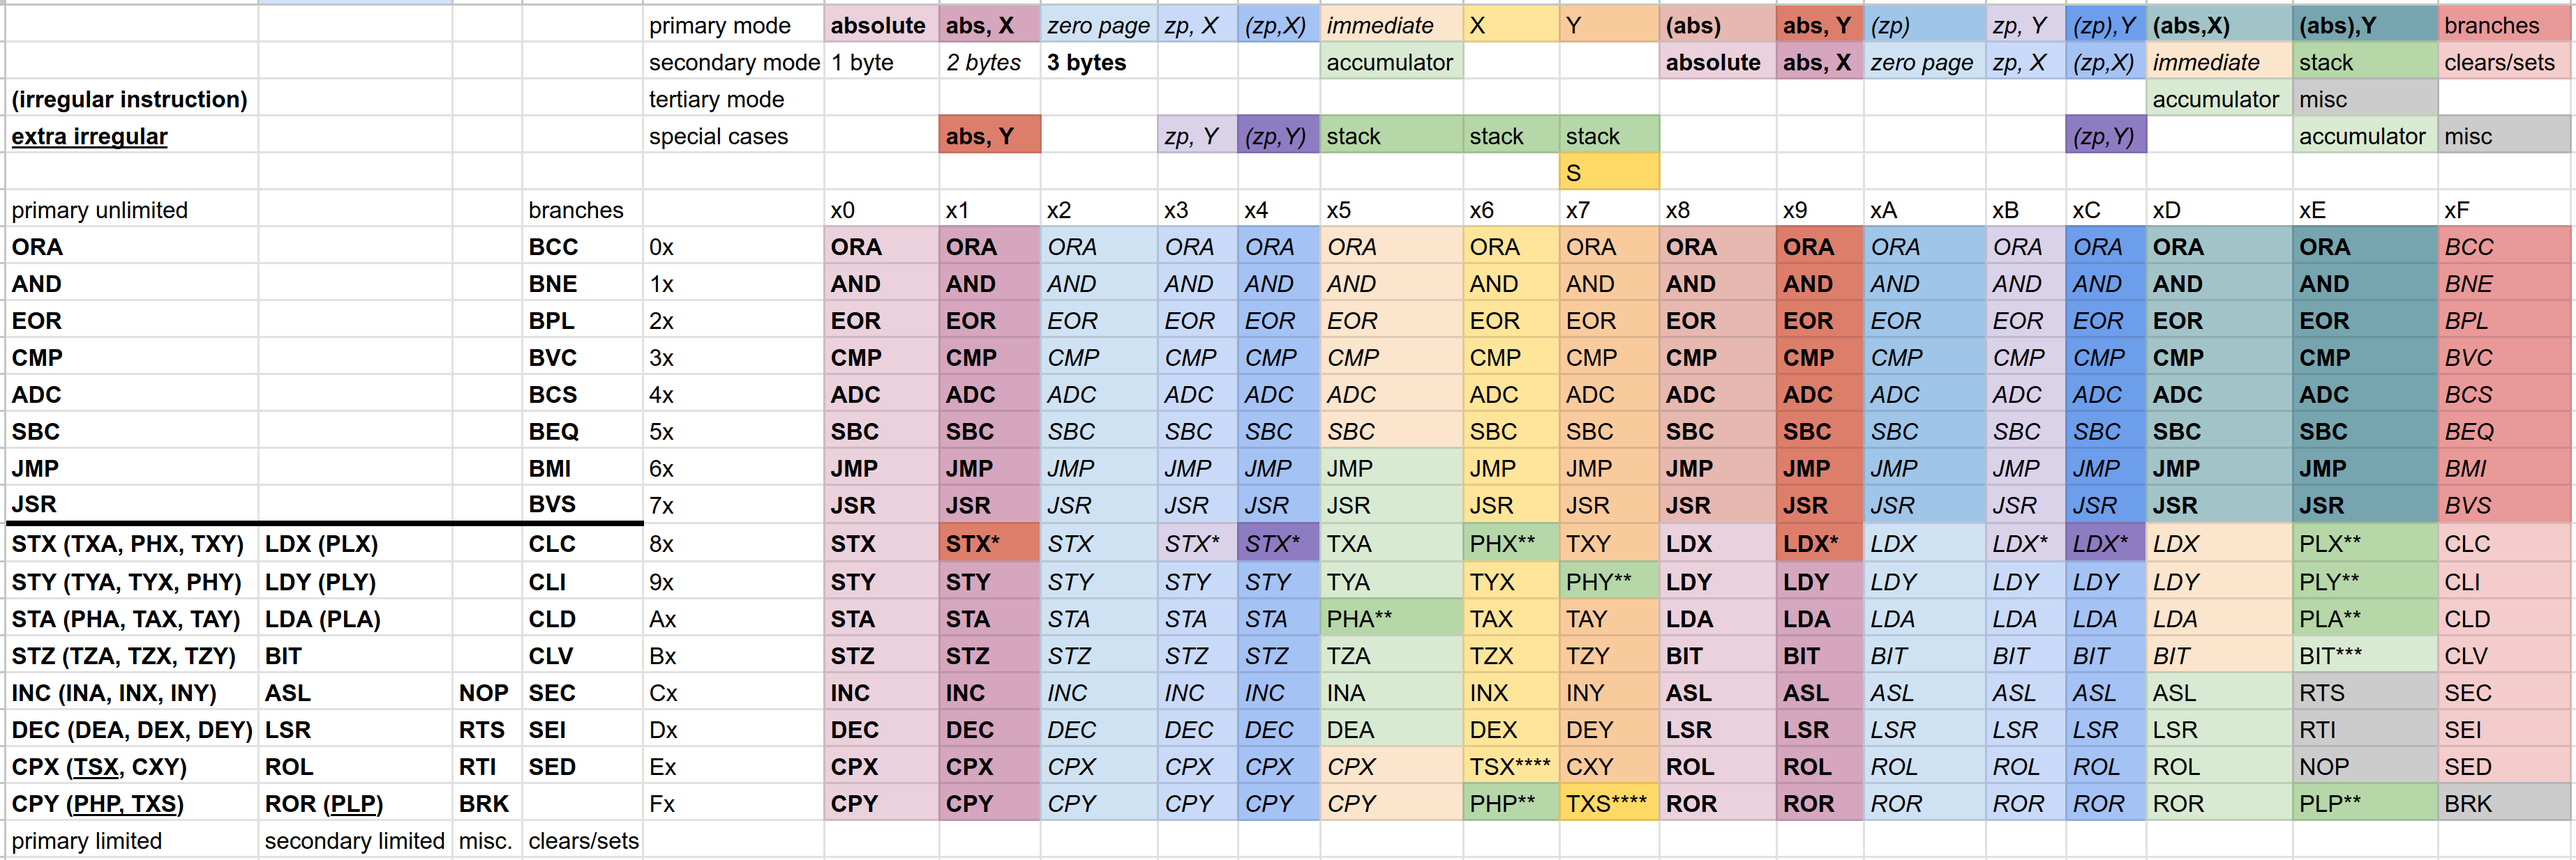
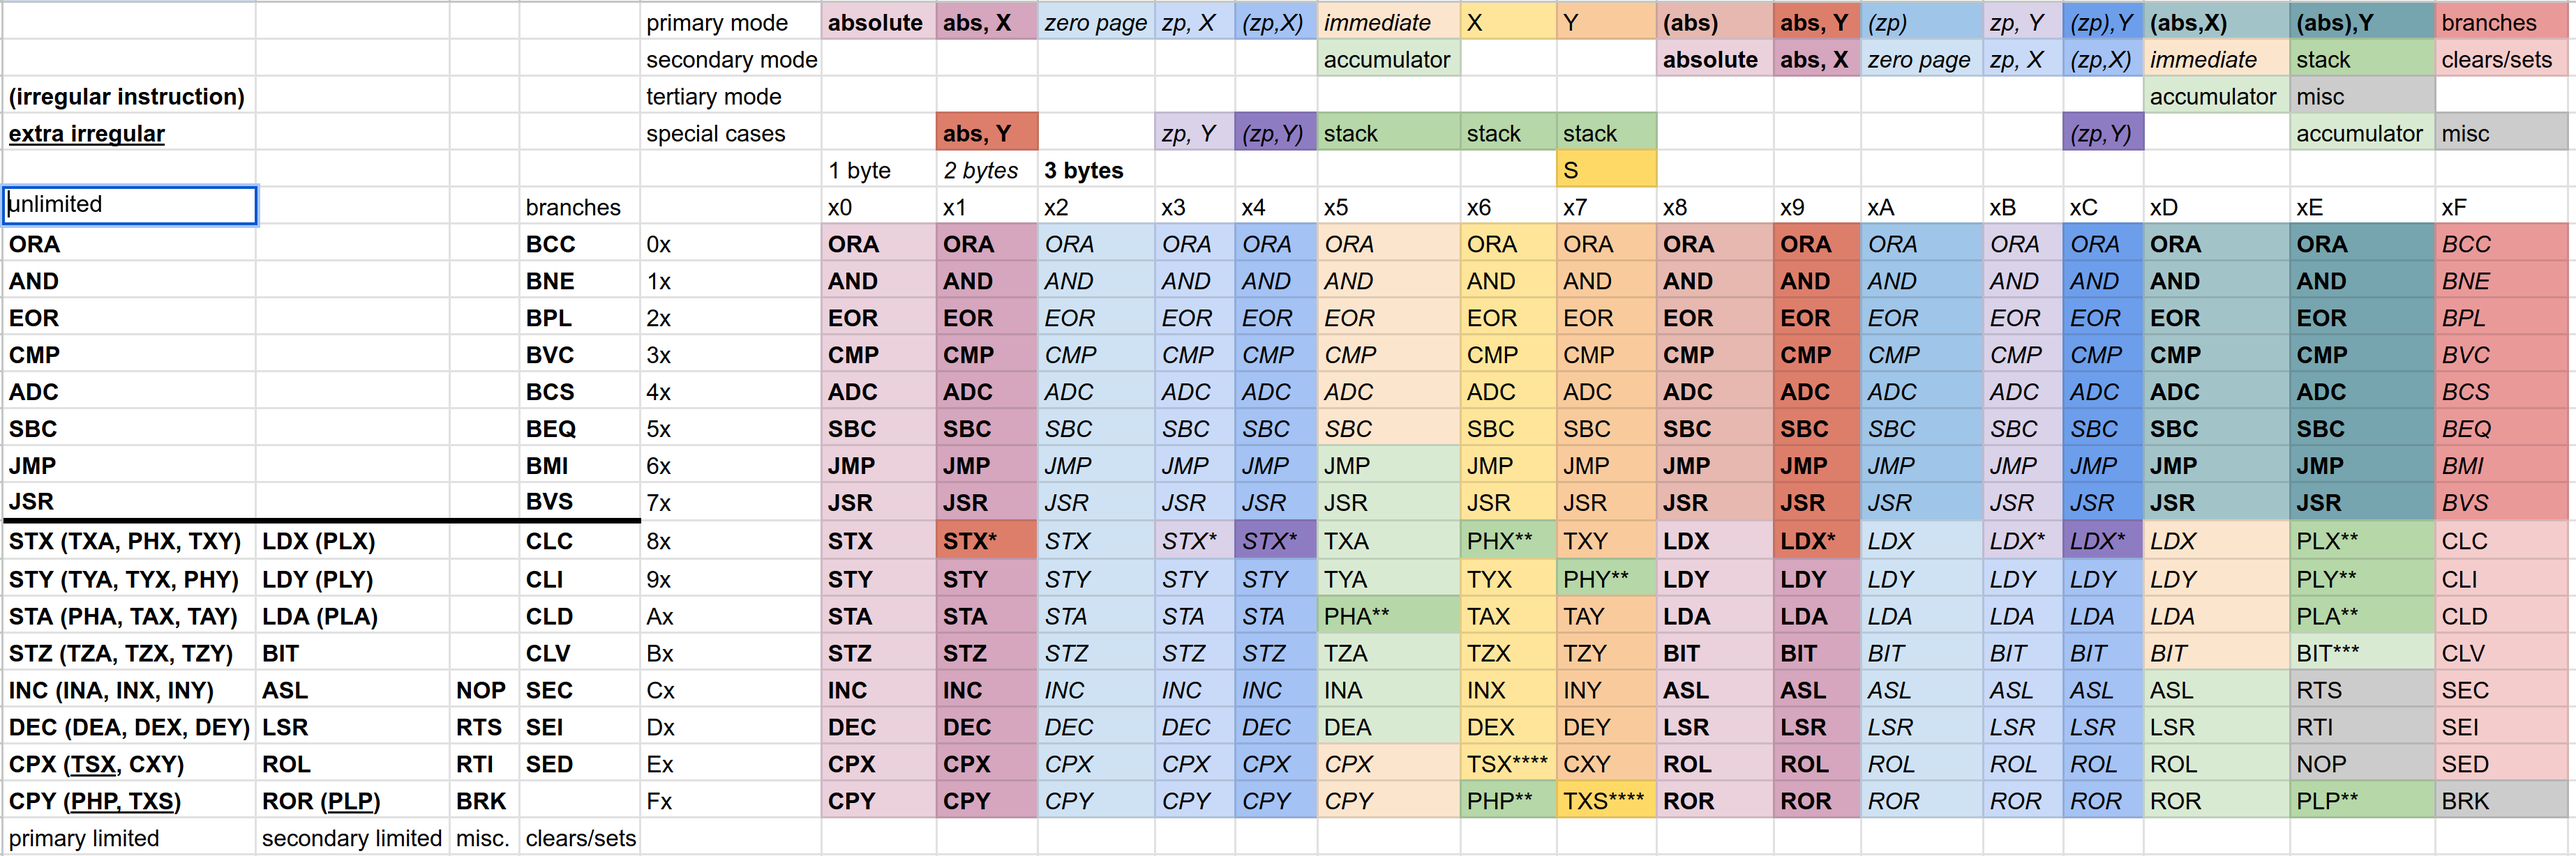
tweaked table.png and README.md

Changed region(s): [[0.0, 0.0, 1.0, 1.0], [0.2492, 0.7117, 0.2803, 0.7736], [0.2492, 0.6189, 0.2803, 0.6808]]

diff --git a/README.md b/README.md
@@ -60,11 +60,11 @@ Let's talk about addressing modes. the 6502 broke its modes up into 3 groups, so
 
 unlimited instructions take up 15 addressing modes and begin with a 0. xF unlimited is reserved for branch instructions. These are for math, bitwise operations, and jumps.
 
-limited instructions start with a 1. primary limited instructions take up 8 addressing modes and look like 1bbb0bbb. (**) (****) secondary limited instructions take up 6 addressing modes (7 including pulls) xF limited is reserved for clears, sets, and BRK FF.
+limited instructions start with a 1. primary limited instructions take up 8 addressing modes and look like `1bbb0bbb`. (**) (****) secondary limited instructions take up 6 addressing modes (7 including pulls) and look like `1bbb1bbb`. xF limited is reserved for clears, sets, and `BRK FF`.
 
-for all instructions the first 6 modes are absolute, absolute + x, zero page, zero page + x, indirect (zero page + x), and immediate/accumulator.* [explanation of these terms](https://en.wikipedia.org/wiki/MOS_Technology_6502#Addressing)
+for all instructions the first 6 modes are absolute, absolute + x, zero page, zero page + x, indirect (zero page + x), and immediate/accumulator.* [explanation of these terms](https://www.nesdev.org/obelisk-6502-guide/addressing.html)
 
-for unlimited and primary limited, the 7th and 8th (x6 and x7) modes are X and Y modes. these modes did not exist on the 6502, and they allow us to do things like directly add y to the accumulator, which as far as I can tell, was not possible. It also allows TXA, TAY, TYA, TAX and the later added TXY and TYX to go in the slots which correspond to storing a register to the register whose mode we're in.
+for unlimited and primary limited, the 7th and 8th (`x6` and `x7`) modes are X and Y modes. these modes did not exist on the 6502, and they allow us to do things like directly add y to the accumulator, which as far as I can tell, was not possible. It also allows TXA, TAY, TYA, TAX and the later added TXY and TYX to go in the slots which correspond to storing a register to the register whose mode we're in.
 
 secondary limited instructions only take up 6 addressing modes except for the loads which include pulls from the stack. (imagine ROR as a phantom LDP)
 
@@ -80,7 +80,7 @@ I would like there to be simpler behavior for determining immediate vs. accumula
 Just like in the original instruction set, if loading or storing X in an addressing mode which references X, replace X with Y.
 
 ### **
-Added new pushes and pulls for X and Y. To push X, Y, or A to the stack, use the ST_ code and mode that would store them to themselves. To pull them from the stack, LD_ in mode xE. PHP and PLP can be conceptualized as if code Fx were STP and LDP, except since there's no mode that would push the process flags to themselves, PHP goes in the gap left by comparing Y to X (redundant to CXY). PLP is in the correct column, and they differ by only a bit! 
+Added new pushes and pulls for X and Y. To push X, Y, or A to the stack, use the `ST_` opcode and mode that would store them to themselves. To pull them from the stack, `LD_` in mode `xE`. PHP and PLP can be conceptualized as if code Fx were `STP` and `LDP`, except since there's no mode that would push the process flags to themselves, PHP goes in the gap left by comparing Y to X (redundant to CXY). PLP is in the correct column, and they differ by only a bit! 
 
 ```
 PHP F6 11110110
@@ -89,10 +89,10 @@ PLP FE 11111110
 
 This is also true of PHX and PLX, but only because mode x6 happens to be the X column. Y and ACC don't have this basically useless but deeply satisfying property because their modes are x7 and x5. I just wanted to tell myself there was a good reason.
 
-I kind of wish the pushes were all in one column like the pulls but this would require major reorganization and I like the x and y modes so i needed something fitting to do with STX X, STY Y, and STA A.
+I kind of wish the pushes were all in one column like the pulls but this would require major reorganization and I like the x and y modes so i needed something fitting to do with `STX X`,` STY Y`, and `STA A`.
 
 ### ***
-Many instructions don't make sense to use the accumulator mode, and many don't make sense to use immediate. because of this, `bbbbb101` is both immediate mode and accumulator mode depending on the instruction. But BIT is a rare instruction that benefits from having both options (and indeed does have both options in later revisions of the 6502) and I had a slot left over, so I shuffled some instructions around so that BIT in mode xE is accumulator mode.
+Many instructions don't make sense to use the accumulator mode, and many don't make sense to use immediate. because of this, `bbbbb101` is both immediate mode and accumulator mode depending on the instruction. But `BIT` is a rare instruction that benefits from having both options (and indeed does have both options in later revisions of the 6502) and I had a slot left over, so I shuffled some instructions around so that `BIT` in mode `xE` is accumulator mode.
 
 ### ****
-TSX and TXS are awkward instructions to place, so I put them in the gap left by comparing x to itself and y to itself. (gross, ugly hack)
+`TSX` and `TXS` are awkward instructions to place, so I put them in the gap left by comparing x to itself and y to itself. (gross, ugly hack)
